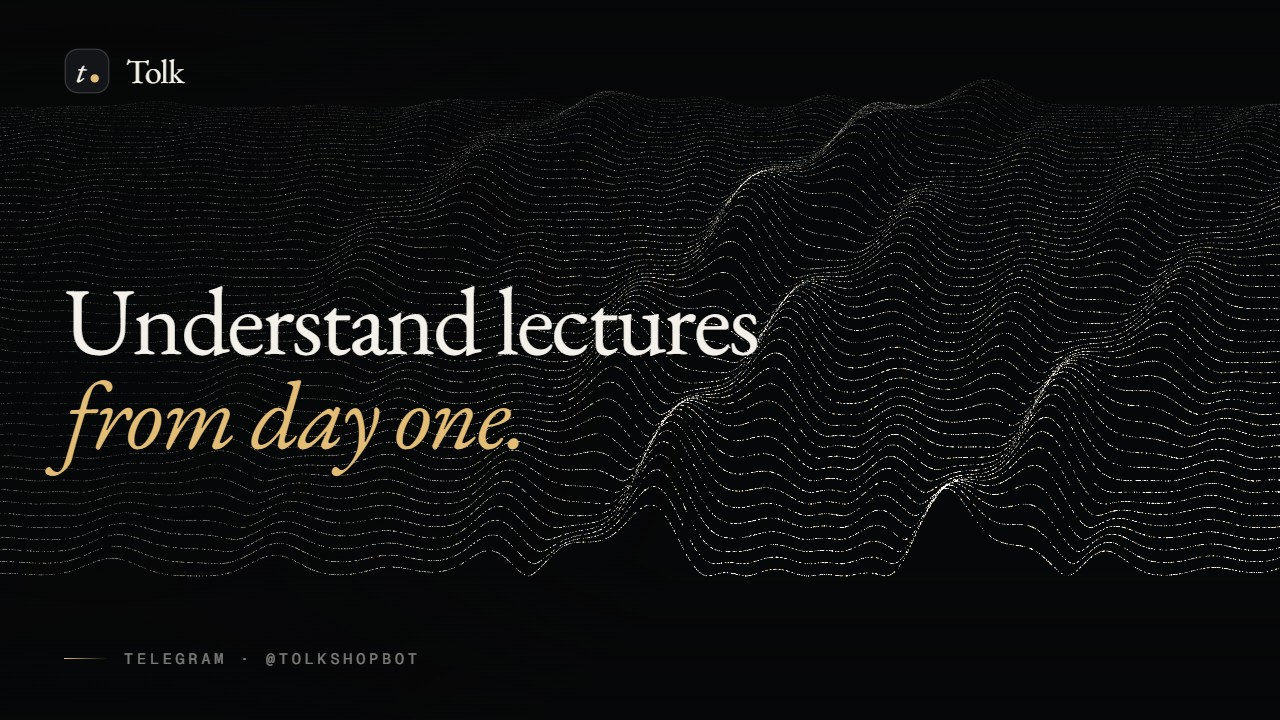
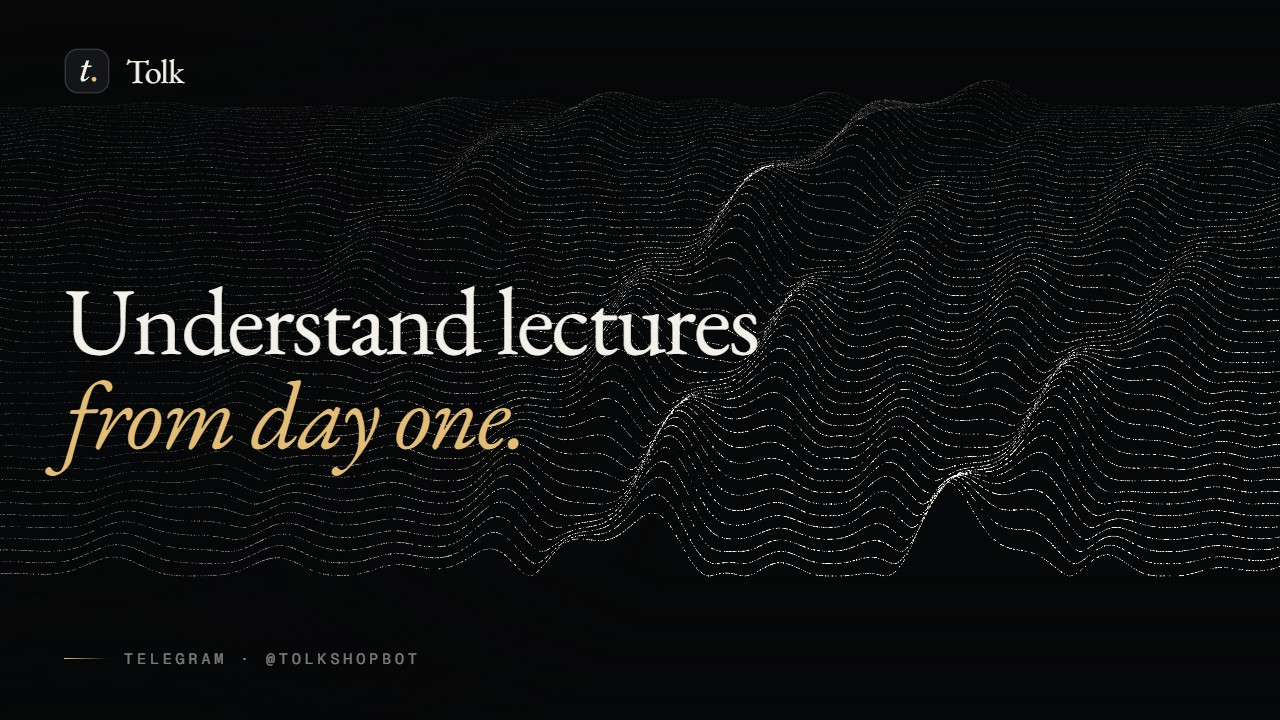
Страница продаж

diff --git a/docs/assets/texts.js b/docs/assets/texts.js
@@ -156,7 +156,7 @@ window.TOLK_TEXTS = {
    ],
    [
     "Как оплатить и когда придёт ключ?",
-    "В Telegram-боте <a class=\"link js-buy\" href=\"https://t.me/TolkShopBot\">@TolkShopBot</a>. Звёздами Telegram — ключ приходит сразу; украинской картой, USDT или TON — после проверки, обычно до 15 минут. Ключ придёт в чат, а Tolk, из которого вы открыли бота, активируется сам."
+    "В Telegram-боте <a class=\"link js-buy\" href=\"https://t.me/TolkShopBot\">@TolkShopBot</a>. Украинской картой, USDT или TON — ключ придёт после проверки оплаты, обычно до 15 минут. Ключ придёт в чат, а Tolk, из которого вы открыли бота, активируется сам."
    ],
    [
     "Подписка продлевается сама?",
@@ -198,7 +198,7 @@ window.TOLK_TEXTS = {
   "p_h": "Тарифи Tolk. <em>Усе включено.</em>",
   "p_lede": "Увесь Tolk і 30 годин Tolk AI на кожні 30 днів. Що довший строк — то дешевший місяць.",
   "extra": "Забракло годин?",
-  "pay_line": "Купівля — у боті <a class=\"link js-buy\" href=\"https://t.me/TolkShopBot\">@TolkShopBot</a>: зірки Telegram, українська картка, USDT або TON. Без автосписань.",
+  "pay_line": "Купівля — у боті <a class=\"link js-buy\" href=\"https://t.me/TolkShopBot\">@TolkShopBot</a>: українська картка, USDT або TON. Без автосписань.",
   "rates": "Ціни в гривнях і крипті — за поточним курсом, округлені. Точна сума — у боті.",
   "q_k": "Питання",
   "t_h": "Спробуйте <em>на своїй лекції.</em>",
@@ -269,7 +269,7 @@ window.TOLK_TEXTS = {
    ],
    [
     "Як оплатити й коли прийде ключ?",
-    "У Telegram-боті <a class=\"link js-buy\" href=\"https://t.me/TolkShopBot\">@TolkShopBot</a>. Зірками Telegram — ключ приходить одразу; українською карткою, USDT або TON — після перевірки, зазвичай до 15 хвилин. Ключ прийде в чат, а Tolk, з якого ви відкрили бота, активується сам."
+    "У Telegram-боті <a class=\"link js-buy\" href=\"https://t.me/TolkShopBot\">@TolkShopBot</a>. Українською карткою, USDT або TON — ключ прийде після перевірки оплати, зазвичай до 15 хвилин. Ключ прийде в чат, а Tolk, з якого ви відкрили бота, активується сам."
    ],
    [
     "Підписка продовжується сама?",
@@ -313,7 +313,7 @@ window.TOLK_TEXTS = {
   "p_h": "Tarify Tolk. <em>Všetko v cene.</em>",
   "p_lede": "Celý Tolk a 30 hodín Tolk AI na každých 30 dní. Čím dlhšie obdobie, tým lacnejší mesiac.",
   "extra": "Nestačili hodiny?",
-  "pay_line": "Nákup v bote <a class=\"link js-buy\" href=\"https://t.me/TolkShopBot\">@TolkShopBot</a>: hviezdy Telegram, ukrajinská karta, USDT alebo TON. Bez automatických platieb.",
+  "pay_line": "Nákup v bote <a class=\"link js-buy\" href=\"https://t.me/TolkShopBot\">@TolkShopBot</a>: ukrajinská karta, USDT alebo TON. Bez automatických platieb.",
   "rates": "Ceny v hrivnách a krypte — podľa aktuálneho kurzu, zaokrúhlené. Presná suma je v bote.",
   "q_k": "Otázky",
   "t_h": "Vyskúšajte <em>na svojej prednáške.</em>",
@@ -384,7 +384,7 @@ window.TOLK_TEXTS = {
    ],
    [
     "Ako zaplatiť a kedy príde kľúč?",
-    "V Telegram bote <a class=\"link js-buy\" href=\"https://t.me/TolkShopBot\">@TolkShopBot</a>. Hviezdami Telegram — kľúč príde hneď; ukrajinskou kartou, USDT alebo TON — po kontrole, zvyčajne do 15 minút. Kľúč príde do chatu a Tolk, z ktorého ste bota otvorili, sa aktivuje sám."
+    "V Telegram bote <a class=\"link js-buy\" href=\"https://t.me/TolkShopBot\">@TolkShopBot</a>. Ukrajinskou kartou, USDT alebo TON — kľúč príde po kontrole platby, zvyčajne do 15 minút. Kľúč príde do chatu a Tolk, z ktorého ste bota otvorili, sa aktivuje sám."
    ],
    [
     "Predlžuje sa predplatné samo?",
@@ -428,7 +428,7 @@ window.TOLK_TEXTS = {
   "p_h": "Tolk plans. <em>Everything included.</em>",
   "p_lede": "All of Tolk plus 30 hours of Tolk AI every 30 days. The longer the plan, the cheaper the month.",
   "extra": "Need more hours?",
-  "pay_line": "Buy in the <a class=\"link js-buy\" href=\"https://t.me/TolkShopBot\">@TolkShopBot</a> bot: Telegram Stars, Ukrainian card, USDT or TON. No automatic charges.",
+  "pay_line": "Buy in the <a class=\"link js-buy\" href=\"https://t.me/TolkShopBot\">@TolkShopBot</a> bot: Ukrainian card, USDT or TON. No automatic charges.",
   "rates": "Hryvnia and crypto prices follow the current rate, rounded. The exact amount is shown in the bot.",
   "q_k": "FAQ",
   "t_h": "Try it on <em>your own lecture.</em>",
@@ -499,7 +499,7 @@ window.TOLK_TEXTS = {
    ],
    [
     "How do I pay, and when do I get the key?",
-    "In the Telegram bot <a class=\"link js-buy\" href=\"https://t.me/TolkShopBot\">@TolkShopBot</a>. With Telegram Stars the key arrives instantly; with a Ukrainian card, USDT or TON it comes after a check, usually within 15 minutes. The key arrives in the chat, and the Tolk you opened the bot from activates itself."
+    "In the Telegram bot <a class=\"link js-buy\" href=\"https://t.me/TolkShopBot\">@TolkShopBot</a>. Pay with a Ukrainian card, USDT or TON — the key arrives after the payment is checked, usually within 15 minutes. The key arrives in the chat, and the Tolk you opened the bot from activates itself."
    ],
    [
     "Does the subscription renew automatically?",

diff --git a/docs/index.html b/docs/index.html
@@ -12,7 +12,7 @@
 <meta property="og:title" content="Tolk — всё, что звучит, на вашем языке">
 <meta property="og:description" content="Онлайн-лекции, созвоны и фильмы на любом языке — с переводом в реальном времени. Windows 10 и 11.">
 <meta property="og:image" content="https://sethosint.github.io/tolk-releases/img/og.jpg">
-<link rel="icon" type="image/png" sizes="64x64" href="img/tolk-t-64.png">
+<link rel="icon" type="image/png" sizes="64x64" href="img/tolk-mark-64.png">
 <link rel="apple-touch-icon" href="img/icon.png">
 <script>
   // тема: сохранённая вручную или системная (без мигания при загрузке)
@@ -26,7 +26,7 @@
 <link rel="preconnect" href="https://fonts.googleapis.com">
 <link rel="preconnect" href="https://fonts.gstatic.com" crossorigin>
 <link href="https://fonts.googleapis.com/css2?family=EB+Garamond:ital,wght@0,400..600;1,400..600&family=Geist:wght@300..600&family=Geist+Mono:wght@400;500&display=swap" rel="stylesheet">
-<link rel="stylesheet" href="assets/site.css?v=42">
+<link rel="stylesheet" href="assets/site.css?v=43">
 </head>
 <body>
 
@@ -35,7 +35,7 @@
 <div class="sub-live" aria-hidden="true"><img alt="" draggable="false"><span class="drag-hint" data-t="drag">Перетащите</span></div>
 
 <header class="nav chrome" id="nav">
-  <a class="brand" href="#top"><svg class="tmark" viewBox="0 0 28 28" aria-hidden="true"><rect x=".75" y=".75" width="26.5" height="26.5" rx="7.8" fill="#141518" stroke="rgba(244,241,234,.18)" stroke-width=".8"/><text x="7.4" y="20.4" font-family="EB Garamond, Georgia, serif" font-style="italic" font-size="19.5" fill="#f4f1ea">t</text><circle cx="18.7" cy="18.5" r="2.5" fill="#e3bd76"/></svg><span>Tolk</span></a>
+  <a class="brand" href="#top"><svg class="tmark" viewBox="0 0 28 28" aria-hidden="true"><rect x=".75" y=".75" width="26.5" height="26.5" rx="7.8" fill="#141518" stroke="rgba(244,241,234,.18)" stroke-width=".8"/><path d="M13.48 7.60 L13.53 7.58 L15.31 7.58 L15.36 7.60 L15.26 7.95 L14.45 10.57 L14.47 10.63 L14.52 10.65 L16.93 10.65 L16.97 10.67 L16.97 10.70 L16.72 11.54 L16.66 11.60 L14.21 11.61 L14.16 11.62 L14.12 11.66 L12.40 17.25 L12.18 18.03 L12.13 18.24 L12.12 18.48 L12.14 18.59 L12.18 18.71 L12.27 18.82 L12.38 18.91 L12.50 18.95 L12.66 18.96 L12.88 18.92 L13.16 18.81 L13.39 18.68 L13.63 18.51 L13.94 18.25 L14.31 17.90 L14.86 17.26 L14.91 17.26 L14.95 17.28 L15.28 17.55 L15.32 17.62 L15.31 17.69 L14.88 18.27 L14.36 18.87 L14.11 19.11 L13.74 19.44 L13.42 19.69 L13.14 19.88 L12.72 20.11 L12.40 20.25 L12.11 20.34 L11.85 20.40 L11.64 20.42 L11.40 20.44 L11.15 20.41 L10.85 20.33 L10.65 20.23 L10.43 20.05 L10.29 19.86 L10.18 19.63 L10.09 19.32 L10.07 19.11 L10.07 18.84 L10.10 18.58 L10.15 18.27 L10.33 17.62 L11.99 12.27 L12.17 11.66 L12.15 11.62 L12.11 11.61 L10.44 11.61 L10.40 11.59 L10.39 11.54 L10.56 10.97 L10.61 10.92 L11.72 10.71 L12.19 10.59 L12.46 10.49 L12.55 10.44 L12.61 10.28 L12.87 9.47 L13.43 7.66Z" fill="#f4f1ea"/><circle cx="18.29" cy="19.03" r="1.42" fill="#e3bd76"/></svg><span>Tolk</span></a>
   <div class="langs" role="group" aria-label="Язык">
     <button data-lang="ru">RU</button><button data-lang="uk">UK</button><button data-lang="sk">SK</button><button data-lang="en">EN</button>
   </div>
@@ -124,7 +124,7 @@
       <div class="plans js-plans"></div>
       <div class="pay-notes">
         <p><span class="mono-k" data-t="extra">Не хватило часов?</span> <span class="js-topups"></span></p>
-        <p data-t="pay_line">Покупка — в боте <a class="link js-buy" href="https://t.me/TolkShopBot">@TolkShopBot</a>: звёзды Telegram, украинская карта, USDT или TON. Без автосписаний.</p>
+        <p data-t="pay_line">Покупка — в боте <a class="link js-buy" href="https://t.me/TolkShopBot">@TolkShopBot</a>: украинская карта, USDT или TON. Без автосписаний.</p>
         <p class="note" data-t="rates">Цены в гривнах и крипте — по текущему курсу, округлены. Точная сумма — в боте.</p>
       </div>
     </div>
@@ -171,8 +171,8 @@
 <script src="assets/vendor/ScrollTrigger.min.js" defer></script>
 <script src="assets/vendor/SplitText.min.js" defer></script>
 <script src="assets/vendor/lenis.min.js" defer></script>
-<script src="assets/texts.js?v=42" defer></script>
-<script src="assets/field.js?v=42" defer></script>
-<script src="assets/site.js?v=42" defer></script>
+<script src="assets/texts.js?v=43" defer></script>
+<script src="assets/field.js?v=43" defer></script>
+<script src="assets/site.js?v=43" defer></script>
 </body>
 </html>

diff --git a/docs/privacy.html b/docs/privacy.html
@@ -6,7 +6,7 @@
 <title>Tolk — конфиденциальность · Privacy</title>
 <meta name="description" content="Как Tolk, расширение Tolk и бот @TolkShopBot обращаются с данными. How Tolk, the Tolk extension and @TolkShopBot handle data.">
 <meta name="theme-color" content="#f2eee6">
-<link rel="icon" type="image/png" sizes="64x64" href="img/tolk-t-64.png">
+<link rel="icon" type="image/png" sizes="64x64" href="img/tolk-mark-64.png">
 <script>
   (function () { try { var t = localStorage.getItem("tolk-theme"); if (t === "light" || t === "dark") document.documentElement.dataset.theme = t; } catch (e) {} })();
 </script>
@@ -58,7 +58,7 @@
       <ul>
         <li>Покупка, продление и часы Tolk AI — в Telegram-боте. Чтобы выдать ключ и напомнить о продлении, бот хранит номер
           вашего чата, язык, купленные ключи и сведения о заказах (тариф, дата, сумма, способ оплаты, код комментария).</li>
-        <li>Оплату звёздами Telegram проводит Telegram. Переводы на карту и в криптовалюте продавец проверяет вручную:
+        <li>Переводы на карту и в криптовалюте продавец проверяет вручную:
           квитанция, которую вы присылаете боту, пересылается продавцу в Telegram и на сервере Tolk не сохраняется.</li>
         <li>Бот пишет вам только о ваших покупках: ключ, подтверждение оплаты, напоминание о конце подписки и о часах Tolk AI.
           Рассылок нет.</li>
@@ -120,7 +120,7 @@
         <li>Buying, renewing and Tolk AI hours happen in the Telegram bot. To deliver keys and remind you about renewal, the bot
           keeps your chat number, language, the keys you bought and order records (plan, date, amount, payment method, comment
           code).</li>
-        <li>Telegram Stars payments are processed by Telegram. Card and crypto transfers are checked manually by the seller: the
+        <li>Card and crypto transfers are checked manually by the seller: the
           receipt you send to the bot is forwarded to the seller in Telegram and isn't stored on the Tolk server.</li>
         <li>The bot only messages you about your purchases: the key, payment confirmation, and reminders about the end of your
           subscription and your Tolk AI hours. No newsletters.</li>

diff --git a/docs/assets/site.js b/docs/assets/site.js
@@ -195,7 +195,7 @@
       const p = m && m.prices && m.prices[id];
       return p && p.price && !p.unavailable ? amount(want === "stars" ? p.price : num(p.price, 2), p.currency) : "";
     };
-    const a = [get("card"), get("stars") || (stars ? stars + " ⭐" : "")].filter(Boolean);
+    const a = [get("card")].filter(Boolean);
     const b = [get("usdt"), get("ton")].filter(Boolean);
     return (a.length ? `<span>≈ ${a.join(" · ")}</span>` : "") + (b.length ? `<span>${b.join(" · ")}</span>` : "");
   }
